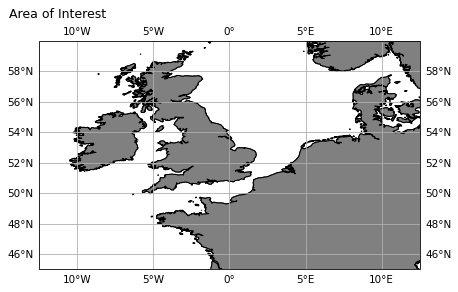
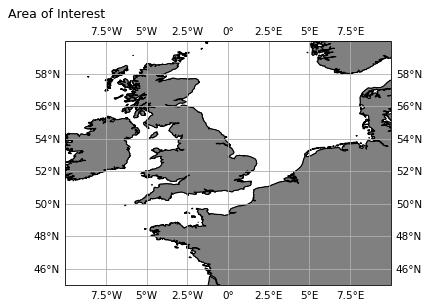
add bathymetry to area-plot

Changed region(s): [[0.0, 0.0308, 1.0, 0.9863]]

diff --git a/theory/theory_part1.py b/theory/theory_part1.py
@@ -3,10 +3,13 @@
 import os
 import sys
 
+import cmocean as cmo
 import matplotlib.pyplot as plt
 import matplotlib.ticker as mticker
 import numpy as np
 import numpy.typing as npt
+import xarray as xr
+from mpl_toolkits.axes_grid1 import make_axes_locatable
 
 create_map: bool
 try:
@@ -17,6 +20,15 @@ try:
 except:
     print("Cartopy is not installed!")
     create_map = False
+
+fill_map: bool
+try:
+    import climetlab as cml
+
+    fill_map = True
+except:
+    print("Climetlab is not installed!")
+    fill_map = False
 
 # fmt: off
 # fix for importing functions below
@@ -208,9 +220,7 @@ def theory_figure_wavelength_vs_velocity(
 
 
 # Map
-def theory_figure_map(
-    savename: str = None,
-) -> None:
+def theory_figure_map(savename: str = None, bathymetry: xr.Dataset = None) -> None:
     """Create figure of the area of interest
 
     Options:
@@ -228,6 +238,24 @@ def theory_figure_map(
     fig.suptitle("Area of Interest", va="top", ha="left", x=0.01)
 
     ax = fig.add_subplot(projection=ccrs.PlateCarree())
+
+    if bathymetry is not None:
+        savename = f"{savename}-bathymetry"
+
+        cf = ax.pcolormesh(
+            data["longitude"],
+            data["latitude"],
+            data,
+            cmap=cmo.tools.crop(cmo.cm.topo, -200, 0, 0),
+            vmin=-200,
+            rasterized=True,
+        )
+
+        cb = fig.colorbar(cf, ax=ax, extend="min")
+        cb.set_label("Water Depth [m]")
+
+        ax.tick_params(labelright=False)
+
     coastlines = ax.coastlines("10m")
     landsurface = ax.add_feature(
         cfeature.NaturalEarthFeature(
@@ -235,11 +263,12 @@ def theory_figure_map(
         )
     )
     ax.gridlines(crs=ccrs.PlateCarree(), draw_labels=True)
-    ax.set_xlim([-12.5, 12.5])
+
+    ax.set_xlim([-10, 10])
     ax.set_ylim([45, 60])
     ax.set_aspect(1)
-    # ax.set_xlabel("Longitude")
-    # ax.set_ylabel("Latitude")
+    ax.set_xlabel("Longitude")
+    ax.set_ylabel("Latitude")
 
     coastlines.set(rasterized=True)
     landsurface.set(rasterized=True)
@@ -257,6 +286,26 @@ if __name__ == "__main__":
     current_dir = os.path.dirname(os.path.realpath(__file__))
     figure_dir = f"{current_dir}/figures"
 
+    # Download data if necessary
+    if fill_map:
+        source = cml.load_source(
+            "cds",
+            "reanalysis-era5-single-levels",
+            variable=["model_bathymetry"],
+            product_type="reanalysis",
+            area=[60, -15, 45, 15],
+            year="2020",
+            day="01",
+            month="01",
+            time="12:00",
+            format="netcdf",
+        )
+
+        data = source.to_xarray()
+        data = data["wmb"].sel(time=data["time"].min())
+        data = -1. * data
+        data = data.fillna(0.0)
+
     # Parameters
     a = np.logspace(2, 6, 201)
     alpha = np.sort(np.array([1 / 50, 1 / 400, 1 / 200, 1 / 800]))[::-1]
@@ -268,6 +317,8 @@ if __name__ == "__main__":
     theory_figure_wavelength_vs_velocity(velocity, alpha)
     if create_map:
         theory_figure_map()
+    if create_map and fill_map:
+        theory_figure_map(bathymetry=data)
 
     # End
     if show_figures:
